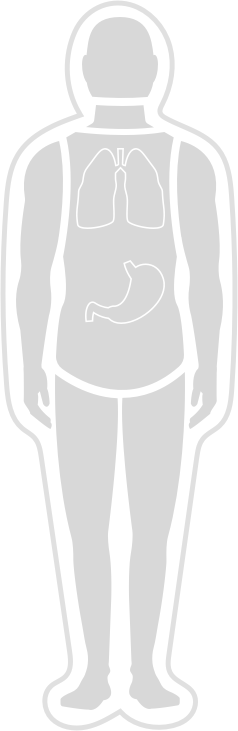
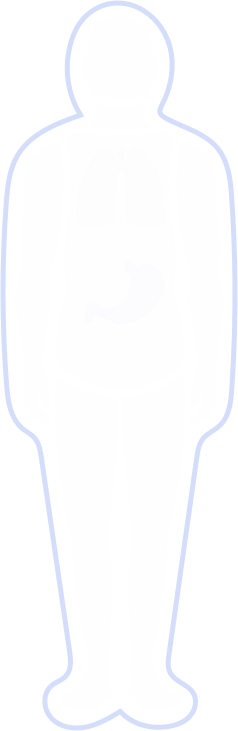
Body Map assets + Table View Fix

diff --git a/emnd-mobile/iOS/Views/BodyView.designer.cs b/emnd-mobile/iOS/Views/BodyView.designer.cs
@@ -20,7 +20,15 @@ namespace Emnd.iOS
 
         [Outlet]
         [GeneratedCode ("iOS Designer", "1.0")]
+        UIKit.UIImageView DigestionComplete { get; set; }
+
+        [Outlet]
+        [GeneratedCode ("iOS Designer", "1.0")]
         UIKit.UIButton HeadButton { get; set; }
+
+        [Outlet]
+        [GeneratedCode ("iOS Designer", "1.0")]
+        UIKit.UIImageView HeadComplete { get; set; }
 
         [Outlet]
         [GeneratedCode ("iOS Designer", "1.0")]
@@ -28,7 +36,15 @@ namespace Emnd.iOS
 
         [Outlet]
         [GeneratedCode ("iOS Designer", "1.0")]
+        UIKit.UIImageView LeftArmComplete { get; set; }
+
+        [Outlet]
+        [GeneratedCode ("iOS Designer", "1.0")]
         UIKit.UIButton LeftLegButton { get; set; }
+
+        [Outlet]
+        [GeneratedCode ("iOS Designer", "1.0")]
+        UIKit.UIImageView LeftLegComplete { get; set; }
 
         [Outlet]
         [GeneratedCode ("iOS Designer", "1.0")]
@@ -52,7 +68,15 @@ namespace Emnd.iOS
 
         [Outlet]
         [GeneratedCode ("iOS Designer", "1.0")]
+        UIKit.UIImageView RightArmComplete { get; set; }
+
+        [Outlet]
+        [GeneratedCode ("iOS Designer", "1.0")]
         UIKit.UIButton RightLegButton { get; set; }
+
+        [Outlet]
+        [GeneratedCode ("iOS Designer", "1.0")]
+        UIKit.UIImageView RightLegComplete { get; set; }
 
         [Outlet]
         [GeneratedCode ("iOS Designer", "1.0")]
@@ -62,6 +86,10 @@ namespace Emnd.iOS
         [GeneratedCode ("iOS Designer", "1.0")]
         UIKit.UIButton TorsoButton { get; set; }
 
+        [Outlet]
+        [GeneratedCode ("iOS Designer", "1.0")]
+        UIKit.UIImageView TorsoComplete { get; set; }
+
         void ReleaseDesignerOutlets ()
         {
             if (DigestionButton != null) {
@@ -69,9 +97,19 @@ namespace Emnd.iOS
                 DigestionButton = null;
             }
 
+            if (DigestionComplete != null) {
+                DigestionComplete.Dispose ();
+                DigestionComplete = null;
+            }
+
             if (HeadButton != null) {
                 HeadButton.Dispose ();
                 HeadButton = null;
+            }
+
+            if (HeadComplete != null) {
+                HeadComplete.Dispose ();
+                HeadComplete = null;
             }
 
             if (LeftArmButton != null) {
@@ -79,9 +117,19 @@ namespace Emnd.iOS
                 LeftArmButton = null;
             }
 
+            if (LeftArmComplete != null) {
+                LeftArmComplete.Dispose ();
+                LeftArmComplete = null;
+            }
+
             if (LeftLegButton != null) {
                 LeftLegButton.Dispose ();
                 LeftLegButton = null;
+            }
+
+            if (LeftLegComplete != null) {
+                LeftLegComplete.Dispose ();
+                LeftLegComplete = null;
             }
 
             if (LungButton != null) {
@@ -109,9 +157,19 @@ namespace Emnd.iOS
                 RightArmButton = null;
             }
 
+            if (RightArmComplete != null) {
+                RightArmComplete.Dispose ();
+                RightArmComplete = null;
+            }
+
             if (RightLegButton != null) {
                 RightLegButton.Dispose ();
                 RightLegButton = null;
+            }
+
+            if (RightLegComplete != null) {
+                RightLegComplete.Dispose ();
+                RightLegComplete = null;
             }
 
             if (ThroatButton != null) {
@@ -122,6 +180,11 @@ namespace Emnd.iOS
             if (TorsoButton != null) {
                 TorsoButton.Dispose ();
                 TorsoButton = null;
+            }
+
+            if (TorsoComplete != null) {
+                TorsoComplete.Dispose ();
+                TorsoComplete = null;
             }
         }
     }
